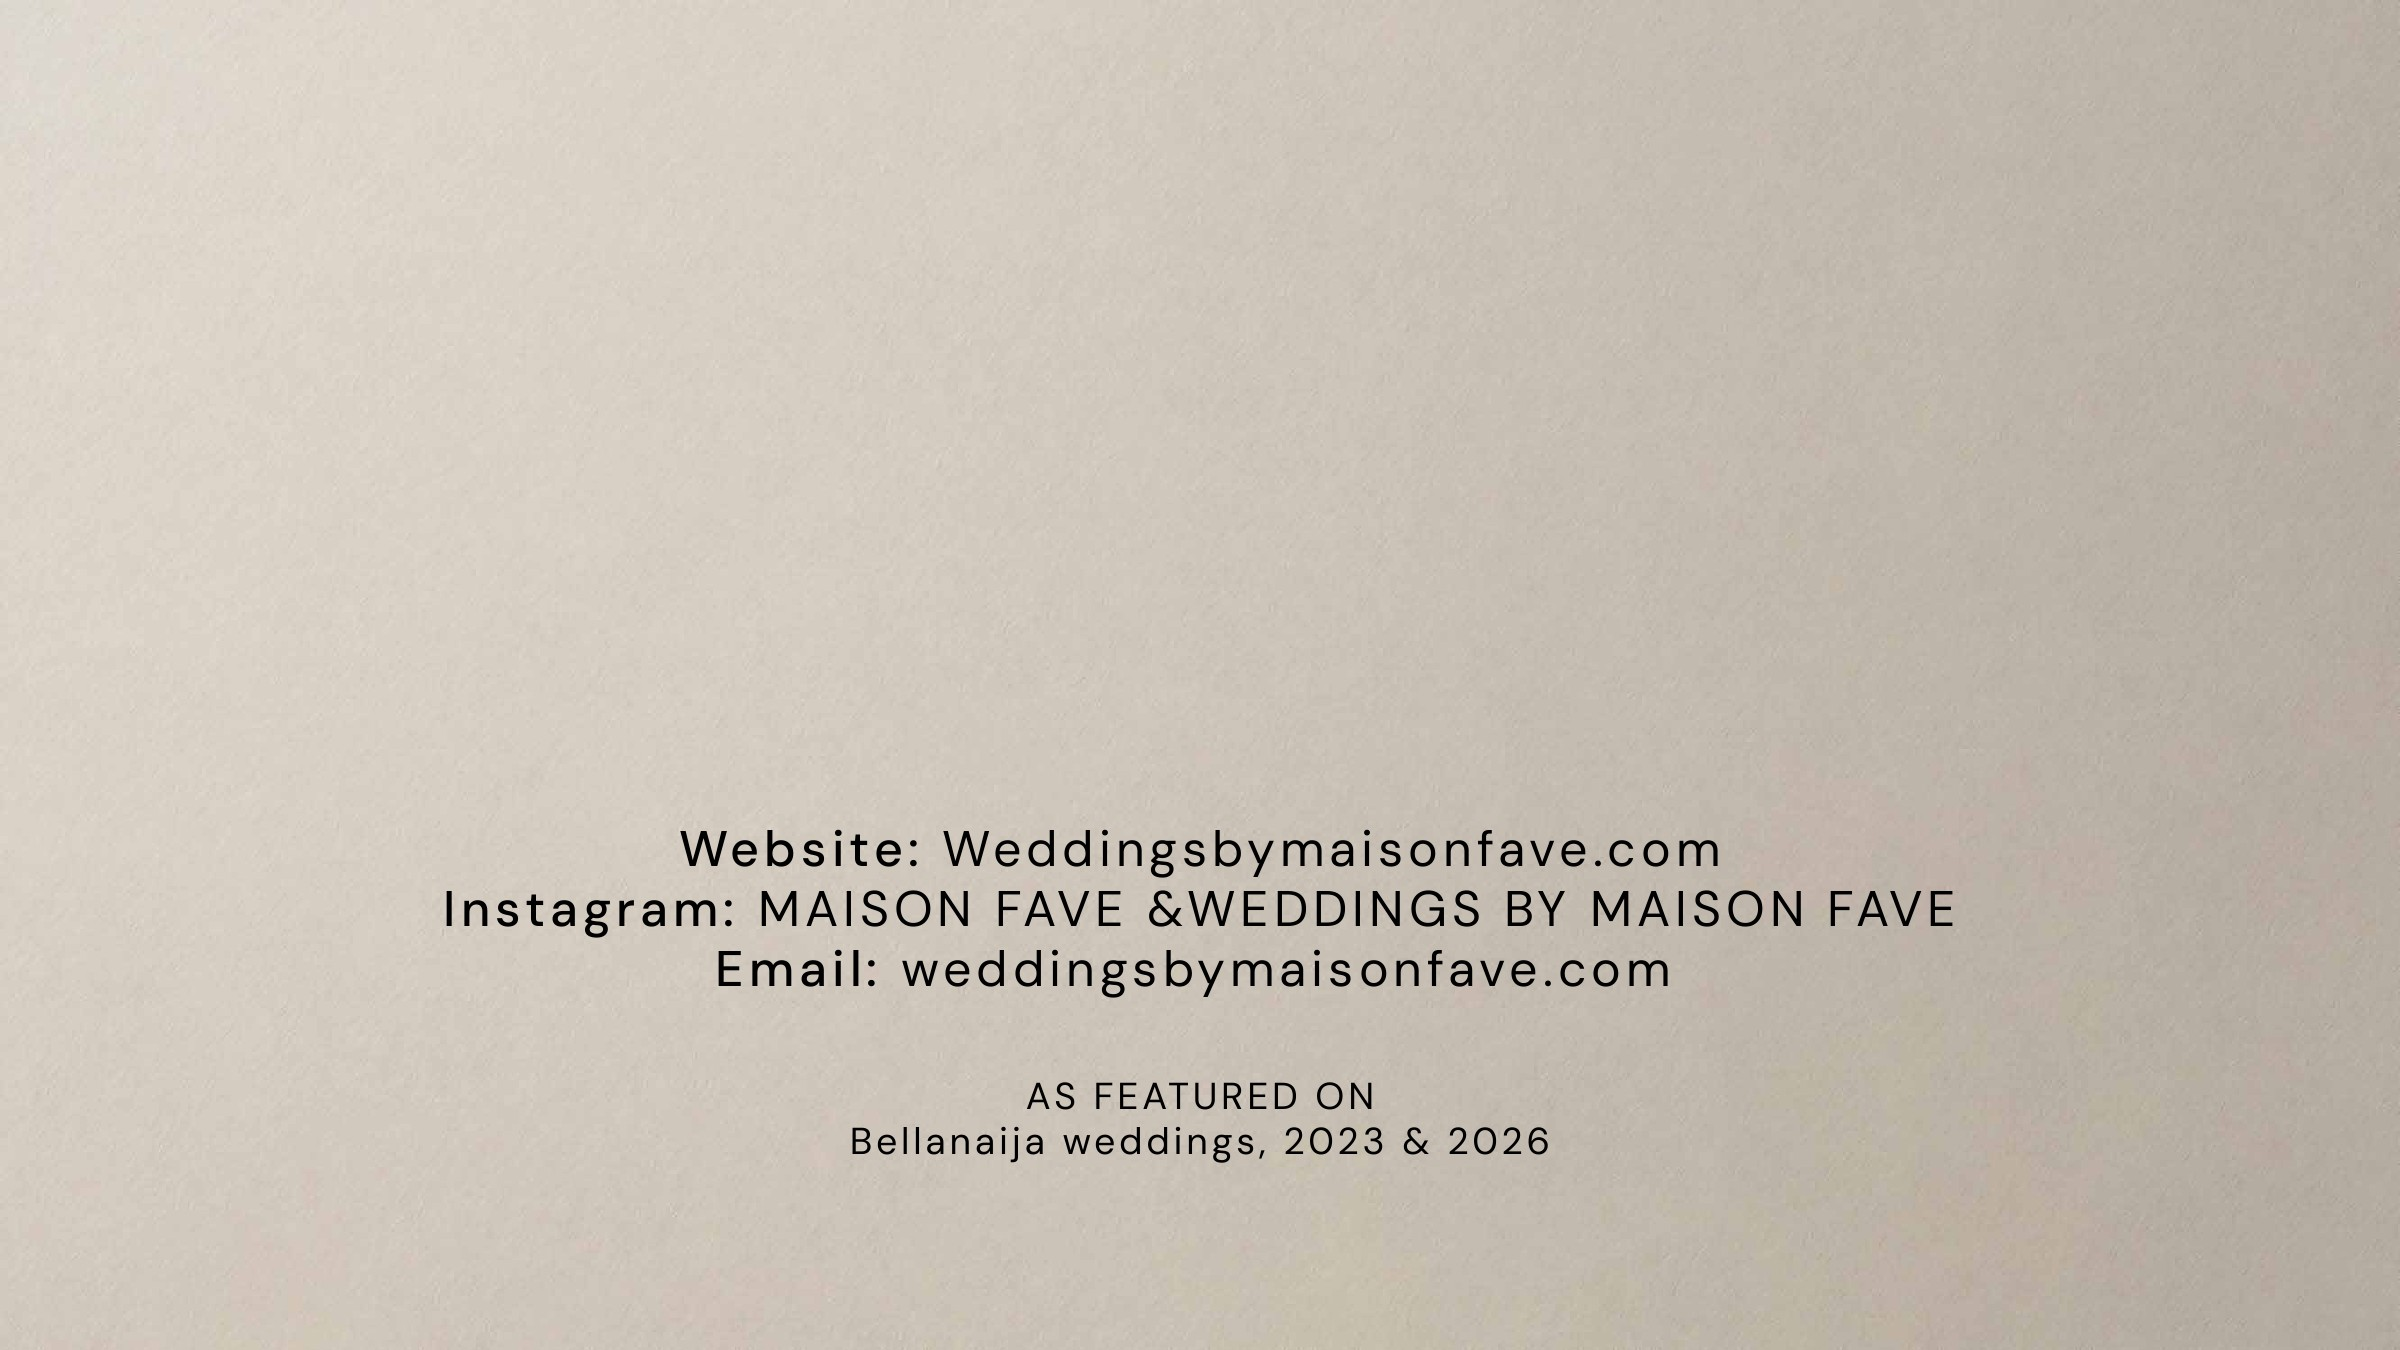
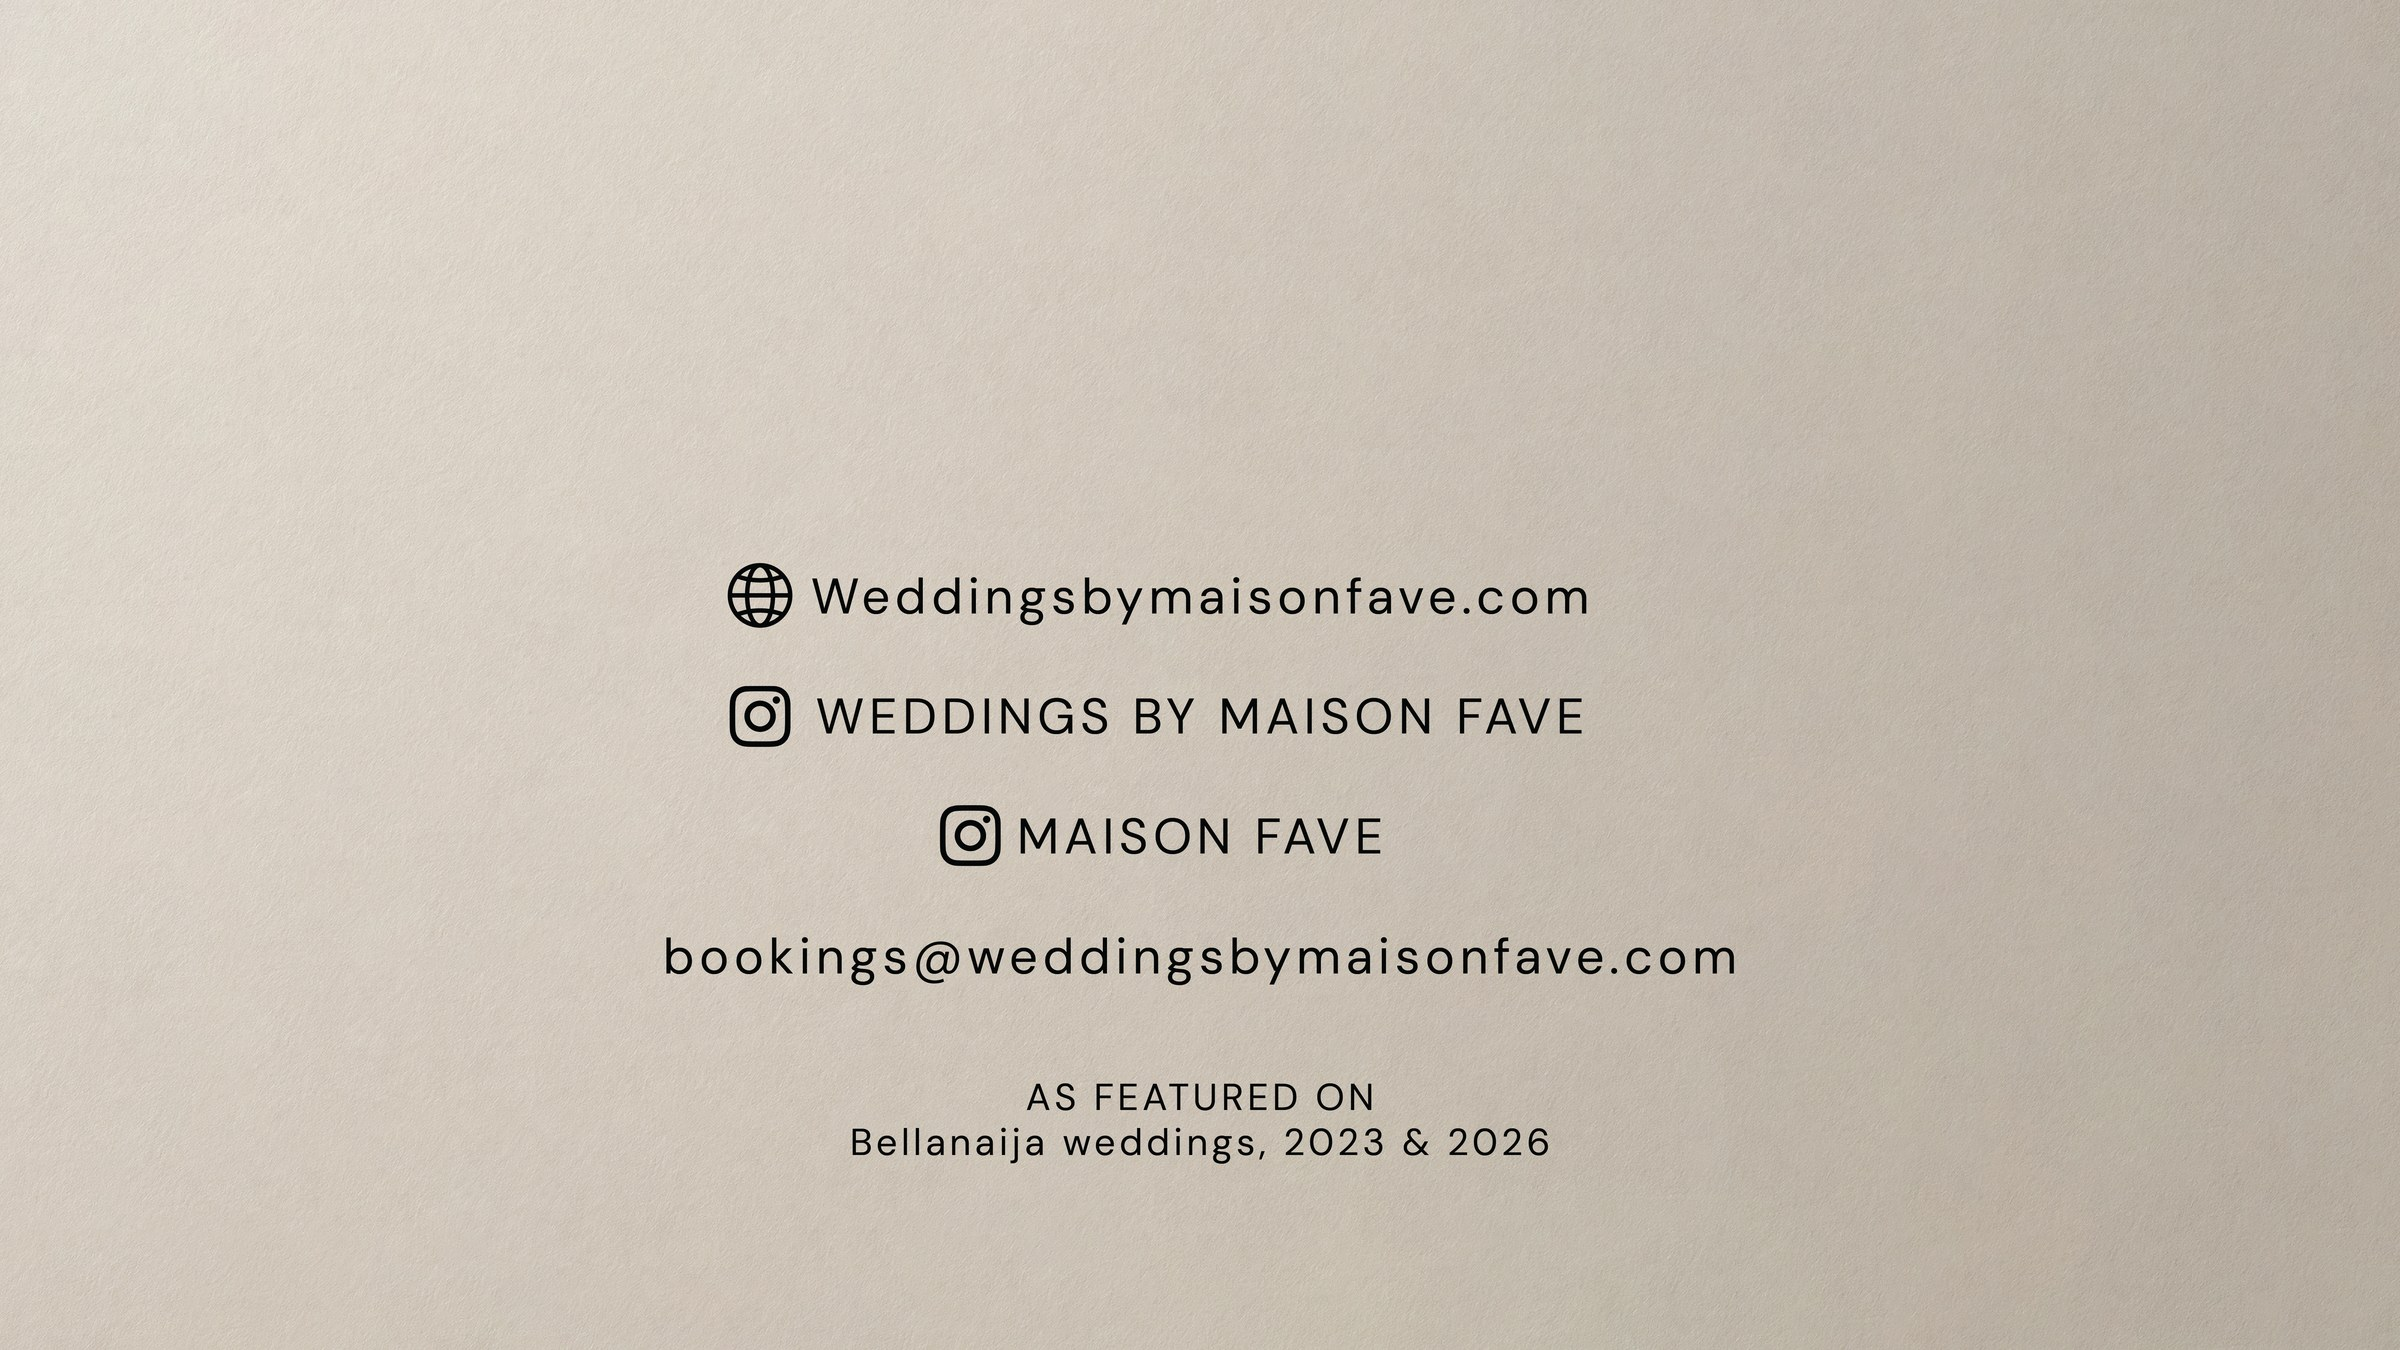
Add Bellanaija feature links pop-up to contact slide
- Update slide 12 with the new contact design (icons, bookings email)
- Make the 'As featured on Bellanaija weddings' line clickable
- Pop-up lists the two Bellanaija Weddings features and the Instagram reel

Claude-Session: https://claude.ai/code/session_011K8dYfCPWw1vdquJTcv73M

diff --git a/index.html b/index.html
@@ -95,6 +95,49 @@ figcaption {
 figcaption b { font-weight: 500; color: var(--ink); }
 .num { font-variant-numeric: tabular-nums; }
 
+/* Clickable "As featured on" line on the contact slide */
+.hotspot {
+  position: absolute; left: var(--x); top: var(--y); width: var(--w); height: var(--h);
+  border: 0; padding: 0; margin: 0; background: transparent; cursor: pointer;
+  -webkit-tap-highlight-color: transparent; border-radius: 6px;
+}
+.hotspot::after {
+  content: ""; position: absolute; left: 4%; right: 4%; bottom: 6%;
+  border-bottom: 1px dashed rgba(35, 38, 28, .55);
+}
+.hotspot:hover, .hotspot:focus-visible { background: rgba(35, 38, 28, .06); }
+.hotspot:focus-visible { outline: 2px solid var(--olive); outline-offset: 2px; }
+
+.pop[hidden] { display: none; }
+.pop {
+  position: fixed; inset: 0; z-index: 50; display: grid; place-items: center;
+  padding: 16px; background: rgba(20, 22, 16, .45);
+  -webkit-backdrop-filter: blur(3px); backdrop-filter: blur(3px);
+}
+.pop-card {
+  width: 100%; max-width: 440px; background: var(--surface); color: var(--ink);
+  box-shadow: 0 20px 60px rgba(0,0,0,.25); padding: 22px 22px 18px;
+  display: grid; gap: 14px; animation: rise .22s ease-out;
+}
+@keyframes rise { from { opacity: 0; transform: translateY(8px); } to { opacity: 1; transform: none; } }
+@media (prefers-reduced-motion: reduce) { .pop-card { animation: none; } }
+.pop-head { display: flex; align-items: start; justify-content: space-between; gap: 12px; }
+.pop-eyebrow { font-size: .7rem; letter-spacing: .16em; text-transform: uppercase; color: var(--muted); }
+.pop h2 { margin: 2px 0 0; font-family: var(--display); font-weight: 600; font-size: 1.35rem; line-height: 1.2; }
+.pop-close {
+  flex: none; width: 36px; height: 36px; border-radius: 50%; border: 1px solid var(--line);
+  background: transparent; color: var(--ink); font-size: 1.2rem; line-height: 1; cursor: pointer;
+}
+.pop-list { list-style: none; margin: 0; padding: 0; display: grid; gap: 8px; }
+.pop-list a {
+  display: flex; align-items: center; justify-content: space-between; gap: 12px;
+  padding: 12px 14px; border: 1px solid var(--line); color: var(--ink); text-decoration: none;
+}
+.pop-list a:hover { border-color: var(--olive); }
+.pop-list a:focus-visible, .pop-close:focus-visible { outline: 2px solid var(--olive); outline-offset: 2px; }
+.pop-list small { display: block; color: var(--muted); font-size: .75rem; letter-spacing: .04em; }
+.pop-list .arrow { color: var(--olive); flex: none; }
+
 .foot { max-width: 1200px; margin: 0 auto; padding: 0 16px 40px; color: var(--muted); font-size: .8rem; }
 
 @media (max-width: 640px) {
@@ -114,6 +157,26 @@ figcaption b { font-weight: 500; color: var(--ink); }
 
 <main id="deck"></main>
 
+<div class="pop" id="featured" role="dialog" aria-modal="true" aria-labelledby="featured-title" hidden>
+  <div class="pop-card">
+    <div class="pop-head">
+      <div>
+        <div class="pop-eyebrow">As featured on</div>
+        <h2 id="featured-title">Bellanaija Weddings, 2023 &amp; 2026</h2>
+      </div>
+      <button class="pop-close" id="featured-close" aria-label="Close">&times;</button>
+    </div>
+    <ul class="pop-list">
+      <li><a href="https://www.bellanaijaweddings.com/fisayo-johnson-prewedding-shoot/" target="_blank" rel="noopener">
+        <span>Fisayo &amp; Johnson pre-wedding shoot<small>bellanaijaweddings.com</small></span><span class="arrow" aria-hidden="true">↗</span></a></li>
+      <li><a href="https://www.bellanaijaweddings.com/praise-that-photographer-styled-shoot/" target="_blank" rel="noopener">
+        <span>Styled shoot with Praise That Photographer<small>bellanaijaweddings.com</small></span><span class="arrow" aria-hidden="true">↗</span></a></li>
+      <li><a href="https://www.instagram.com/reel/DQOZwF4gotQ/" target="_blank" rel="noopener">
+        <span>Featured reel<small>instagram.com</small></span><span class="arrow" aria-hidden="true">↗</span></a></li>
+    </ul>
+  </div>
+</div>
+
 <script>
 const slides = [
   { t: "Cover", alt: "Maison Fave. A confluence of visionary design, meticulous curation and boundless creative expression. A global creative house, one unconventional idea at a time." },
@@ -129,8 +192,32 @@ const slides = [
   { t: "Our Approach", alt: "Our Approach: the growth journey, from a stronger foundation to an Africa–Europe institution. Milestones from 2026 through 2027, 2028 and beyond: operating structure, core team and documented process; local partnerships and vendors for destination clients; multiple concurrent projects." },
   { t: "The Ask", alt: "The Ask. Mentorship and infrastructure to scale intentionally. We have the creative identity and the portfolio. The next stage is structure, leadership, partnerships and international presence: credibility, network, France, infrastructure." },
   { t: "Vision", alt: "Vision. A stronger, validated Maison Fave recognized as one of the finest event and design houses in the world. Technology supports the journey; Maison Fave is what we are building." },
-  { t: "Contact", alt: "Contact. Website: weddingsbymaisonfave.com. Instagram: Maison Fave and Weddings by Maison Fave. As featured on Bellanaija Weddings, 2023 and 2026." },
+  { t: "Contact", alt: "Contact. Website: weddingsbymaisonfave.com. Instagram: Weddings by Maison Fave, and Maison Fave. Email: bookings@weddingsbymaisonfave.com. As featured on Bellanaija Weddings, 2023 and 2026.",
+    hotspot: { x: 33, y: 79, w: 34, h: 9, label: "As featured on Bellanaija Weddings, 2023 and 2026. Show the features" } },
 ];
+
+// "As featured on" pop-up
+const pop = document.getElementById("featured");
+let popOpener = null;
+function openFeatured(opener) {
+  popOpener = opener;
+  pop.hidden = false;
+  document.getElementById("featured-close").focus();
+}
+function closeFeatured() {
+  pop.hidden = true;
+  if (popOpener) popOpener.focus();
+}
+document.getElementById("featured-close").addEventListener("click", closeFeatured);
+pop.addEventListener("click", e => { if (e.target === pop) closeFeatured(); });
+pop.addEventListener("keydown", e => {
+  if (e.key === "Escape") { e.preventDefault(); closeFeatured(); return; }
+  if (e.key !== "Tab") return;
+  const f = [...pop.querySelectorAll("a, button")];
+  const first = f[0], last = f[f.length - 1];
+  if (e.shiftKey && document.activeElement === first) { e.preventDefault(); last.focus(); }
+  else if (!e.shiftKey && document.activeElement === last) { e.preventDefault(); first.focus(); }
+});
 
 const deck = document.getElementById("deck");
 const index = document.getElementById("index");
@@ -155,6 +242,14 @@ slides.forEach((s, i) => {
     v.style.setProperty("--x", s.video.x + "%"); v.style.setProperty("--y", s.video.y + "%");
     v.style.setProperty("--w", s.video.w + "%"); v.style.setProperty("--h", s.video.h + "%");
     frame.appendChild(v);
+  }
+  if (s.hotspot) {
+    const h = document.createElement("button");
+    h.type = "button"; h.className = "hotspot";
+    h.setAttribute("aria-label", s.hotspot.label); h.setAttribute("aria-haspopup", "dialog");
+    ["x", "y", "w", "h"].forEach(k => h.style.setProperty("--" + k, s.hotspot[k] + "%"));
+    h.addEventListener("click", () => openFeatured(h));
+    frame.appendChild(h);
   }
   const cap = document.createElement("figcaption");
   cap.innerHTML = '<b>' + s.t + '</b><span class="num">' + pad(n) + ' / ' + pad(slides.length) + '</span>';
@@ -187,7 +282,7 @@ document.addEventListener("play", e => {
 }, true);
 
 document.addEventListener("keydown", e => {
-  if (e.target.closest("video, input, textarea")) return;
+  if (!pop.hidden || e.target.closest("video, input, textarea, button")) return;
   let n = null;
   if (["ArrowRight", "ArrowDown", "PageDown", "j"].includes(e.key)) n = Math.min(current + 1, slides.length - 1);
   if (["ArrowLeft", "ArrowUp", "PageUp", "k"].includes(e.key)) n = Math.max(current - 1, 0);
